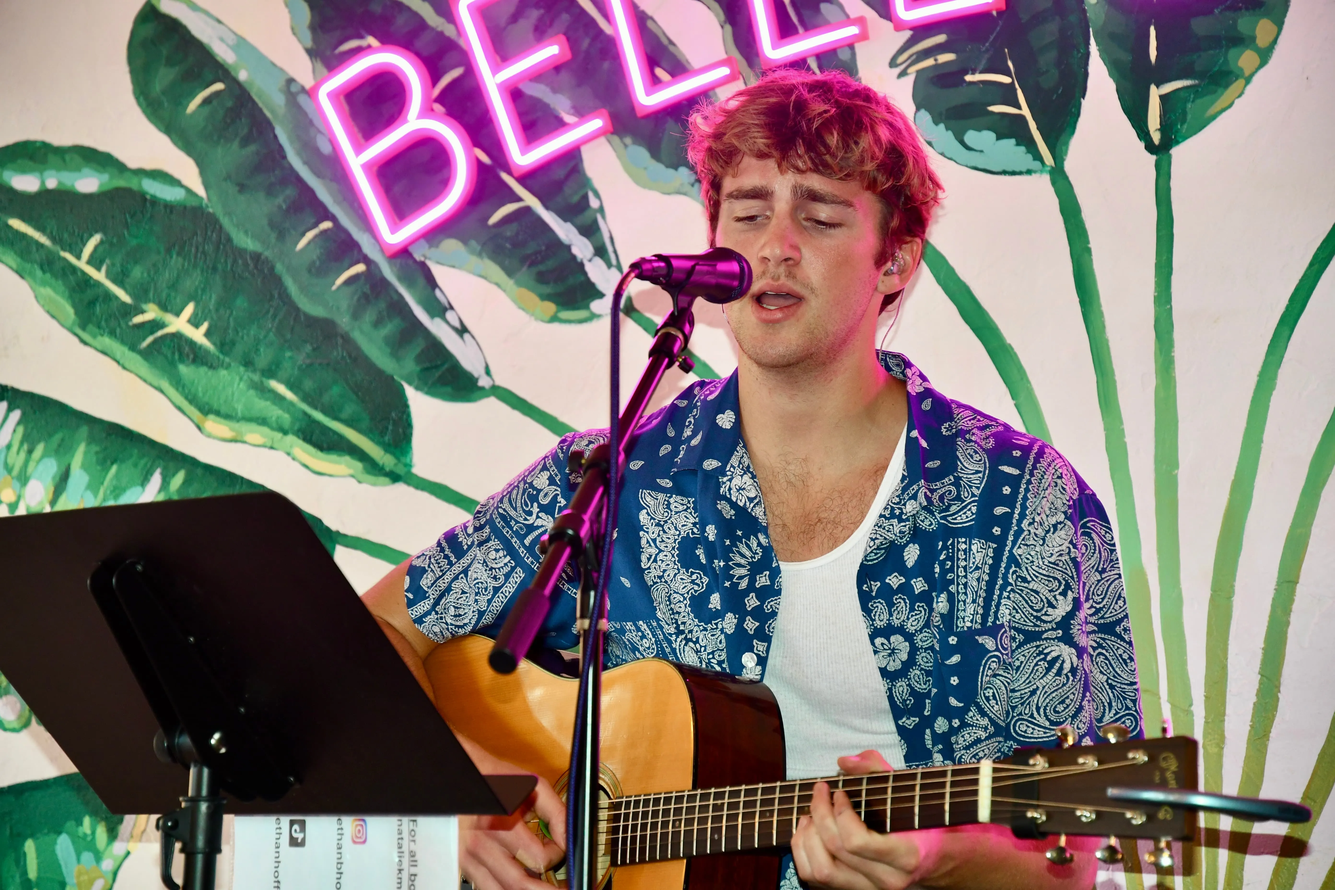
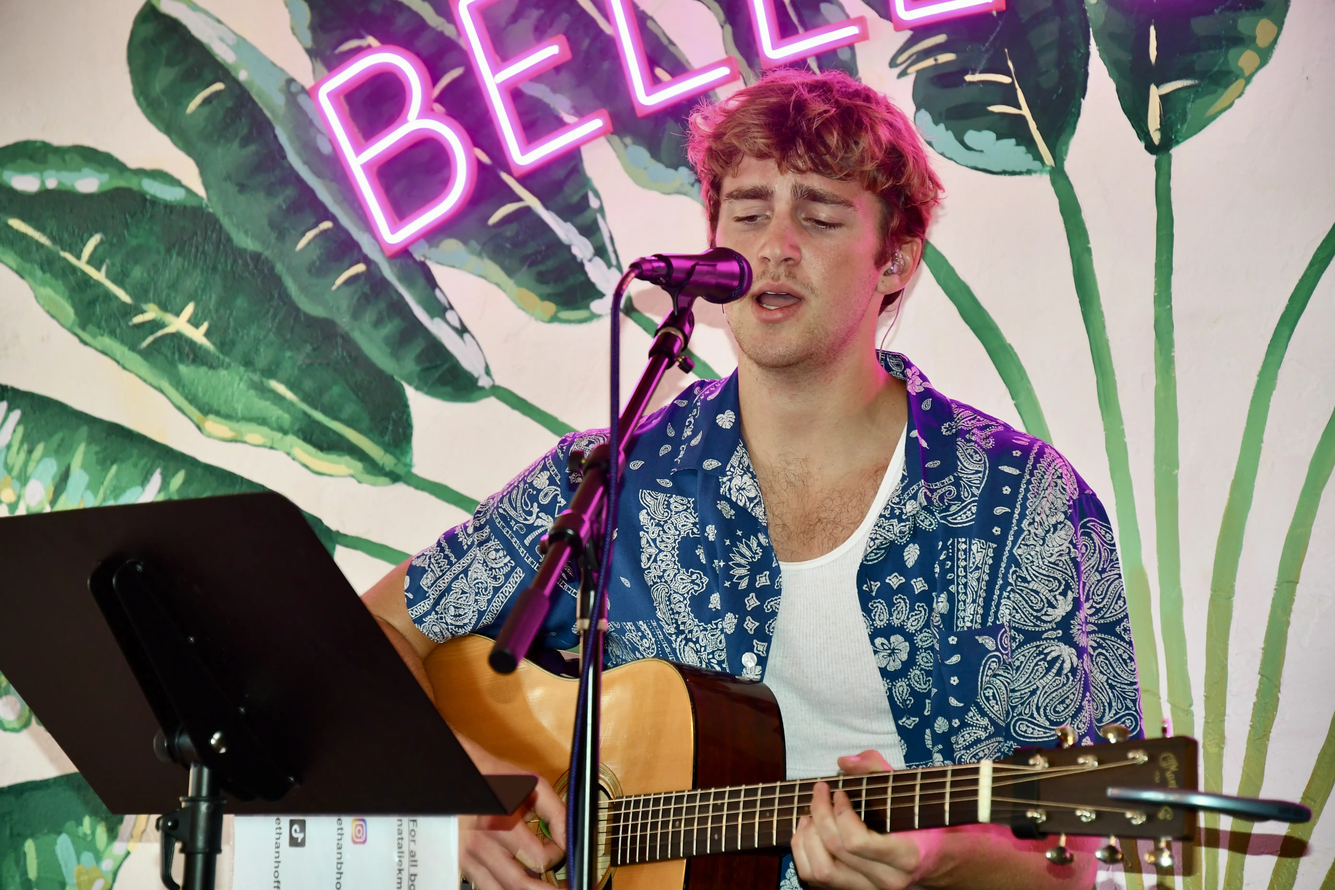
Remove service preloads, compress images to q65

diff --git a/app/layout.tsx b/app/layout.tsx
@@ -17,18 +17,13 @@ export const metadata: Metadata = {
 export const viewport: Viewport = {
   width: 'device-width',
   initialScale: 1,
-  maximumScale: 1,
-  userScalable: false,
 }
 
 export default function RootLayout({ children }: { children: React.ReactNode }) {
   return (
     <html lang="en">
 <head>
-  <link rel="preload" as="image" href="/images/ethanwithguitar.webp" />
-  <link rel="preload" as="image" href="/images/ethanthreeguys.webp" />
-  <link rel="preload" as="image" href="/images/ethanwithcrowd.webp" />
-  <link rel="preload" as="image" href="/images/ethansoloshot.webp" />
+  <link rel="preload" as="image" href="/images/ethanphotositting.webp" />
 </head>
     <body>
         <AnimatePresence mode="wait" initial={false}>
